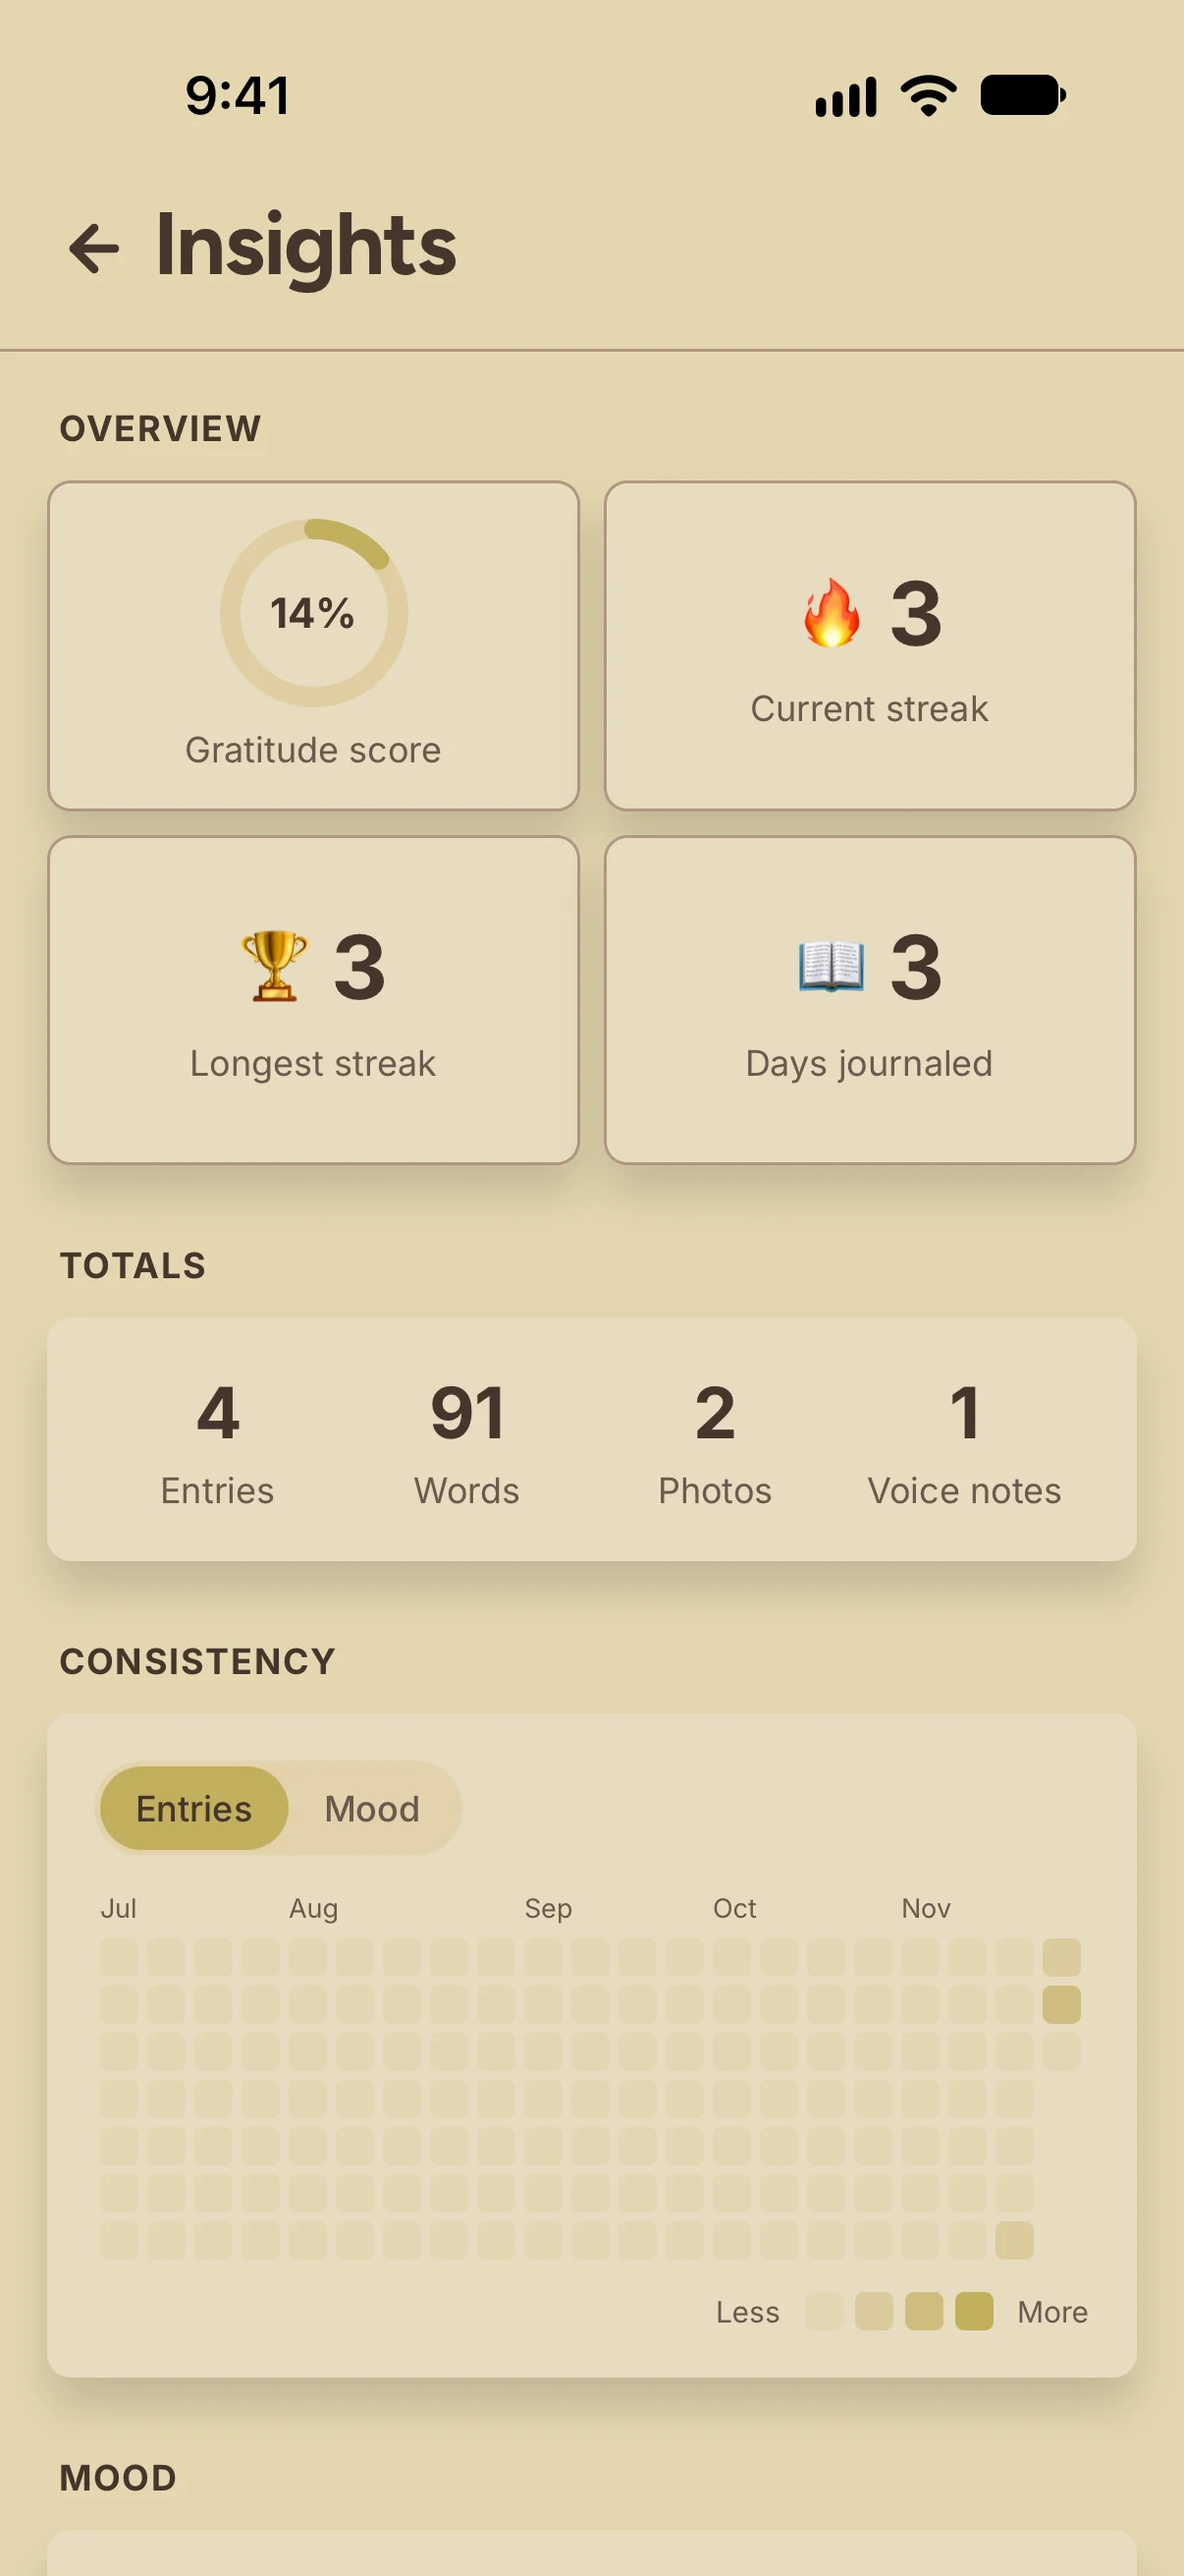
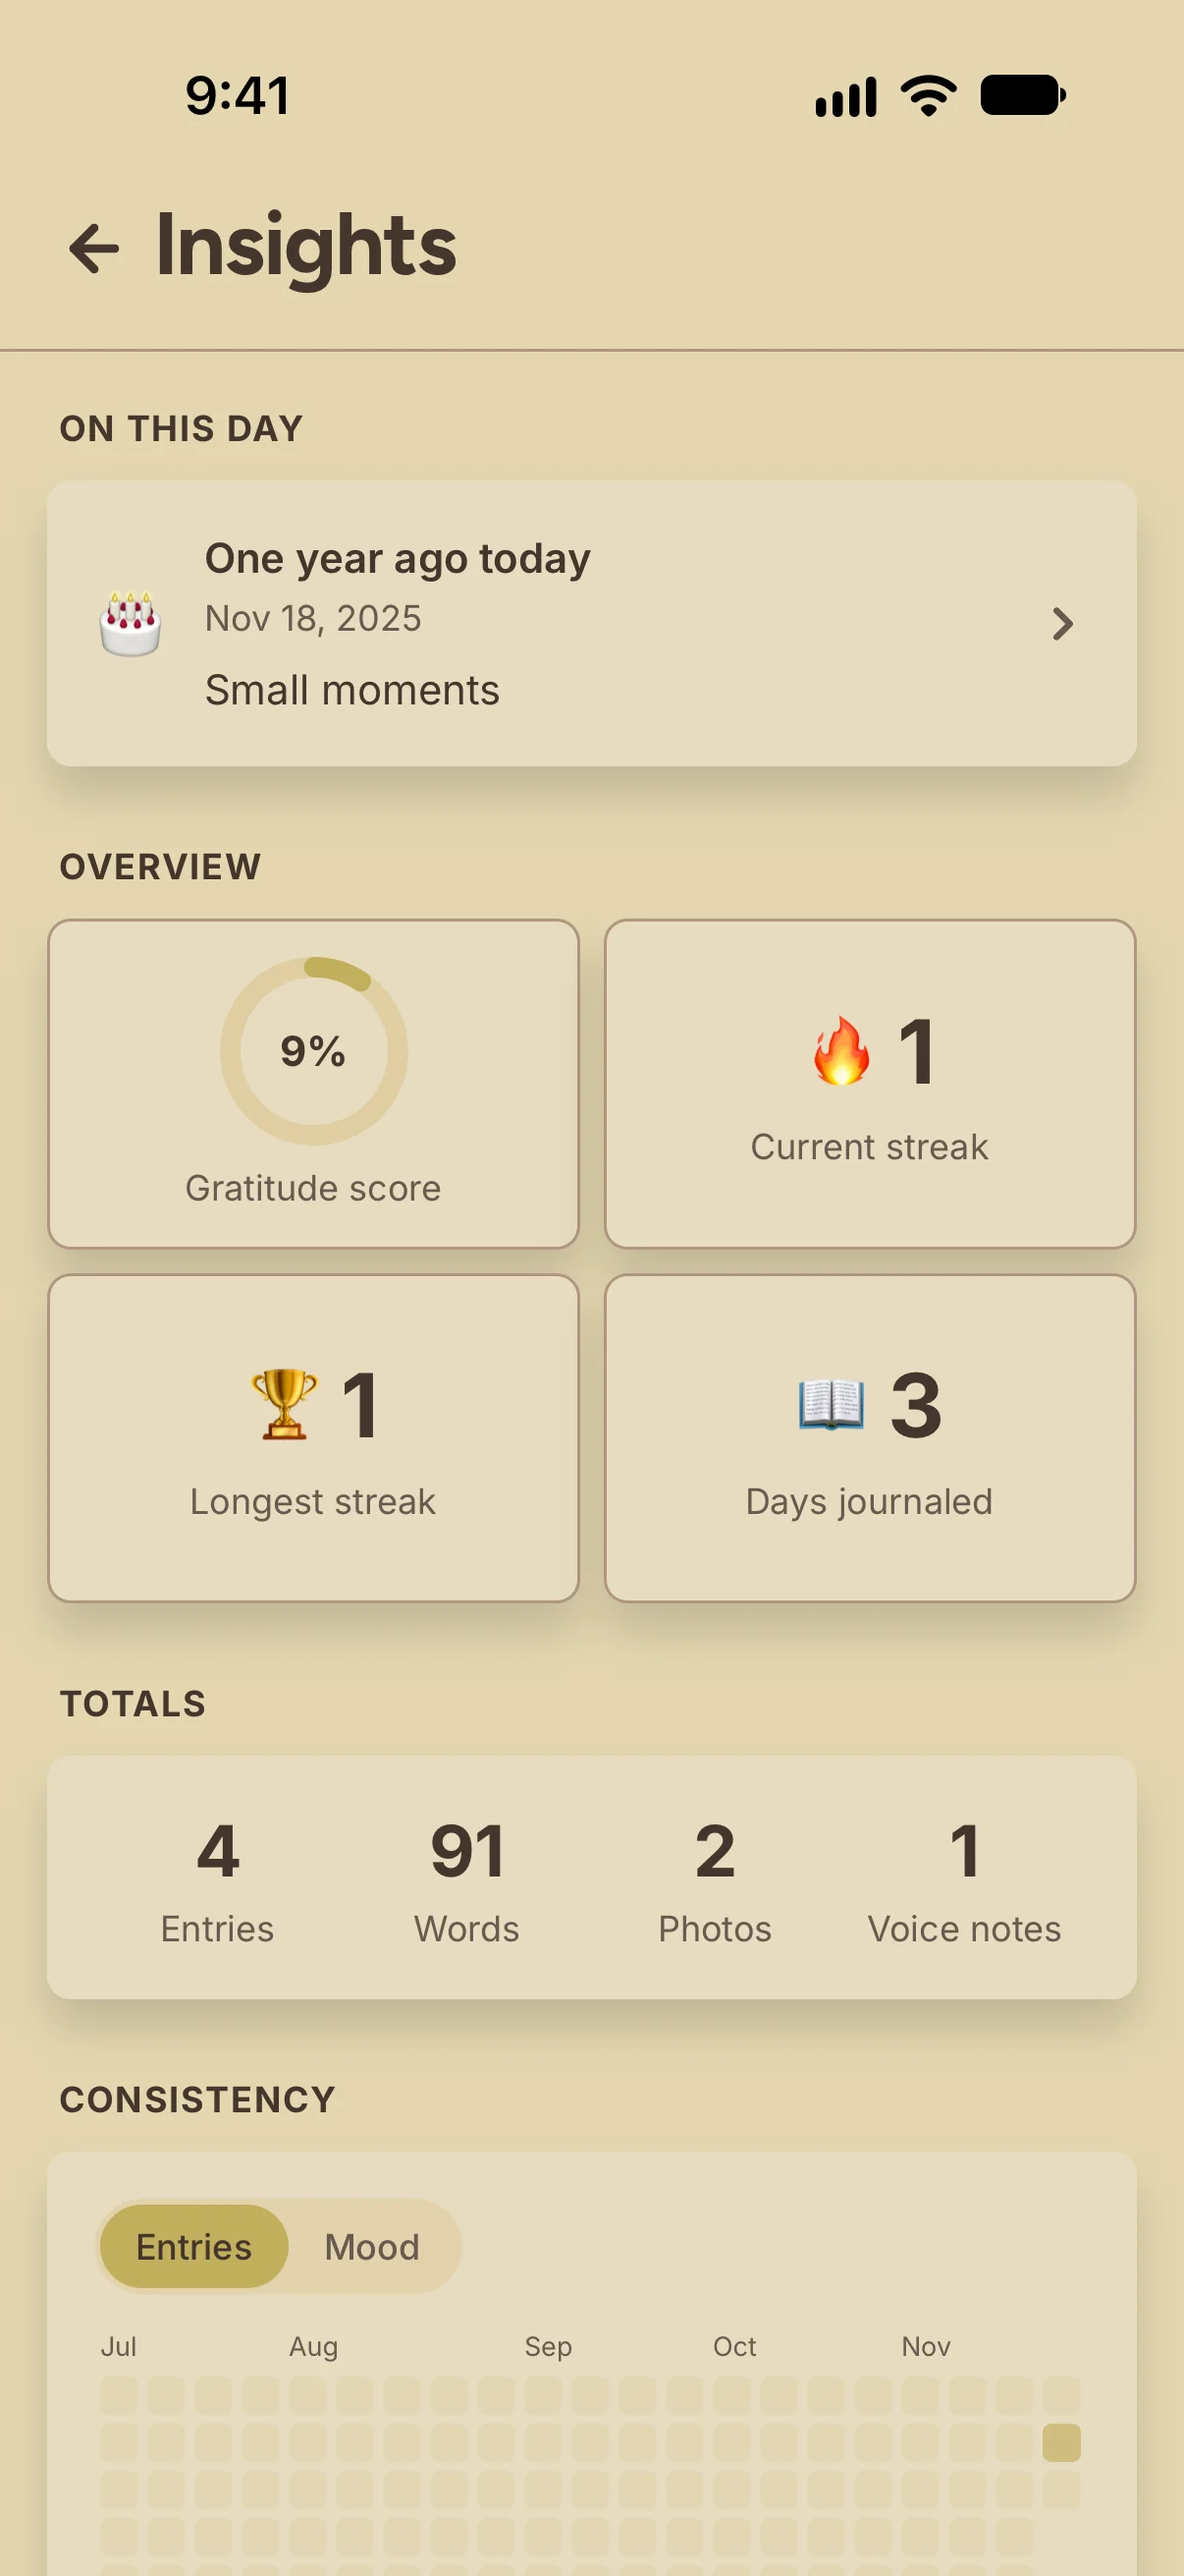
fix(website): show On this day in the Insights shot and tidy screenshot docs

Changed region(s): [[0.0307, 0.1545, 0.9818, 0.9886], [0.2761, 0.6796, 0.3375, 0.7105], [0.7977, 0.7105, 0.8284, 0.7414]]

diff --git a/apps/website/src/styles/global.css b/apps/website/src/styles/global.css
@@ -299,7 +299,11 @@
     }
 
     /* App screenshots, framed like PhoneFrame.astro. Several images in one
-       paragraph sit side by side. */
+       paragraph sit side by side. Every image in these pages is expected to be
+       a phone screenshot.
+       shortcut: Markdown images ship at full capture size (about 40-80 KB each,
+       lazy-loaded) with no srcset; render them through <Image> with widths if
+       the guides gain many screenshots. */
     & p:has(> img) {
       @apply flex flex-wrap items-start justify-center gap-6 py-2;
     }

diff --git a/apps/website/src/assets/screenshots/README.md b/apps/website/src/assets/screenshots/README.md
@@ -29,31 +29,47 @@ painted over with the neighbouring colour during the WebP conversion.
 
 ## Files
 
-| File                                   | Screen                                                   | Used on                      |
-| -------------------------------------- | -------------------------------------------------------- | ---------------------------- |
-| `ios/timeline-light.webp`, `-dark`     | Home timeline with the example entries                   | Home hero, README, `og.png`  |
-| `ios/editor-light.webp`, `-dark`       | Editing an entry: mood, photos, Mood/Photo/Voice/Tag bar | Home hero, README, `og.png`  |
-| `ios/entry-light.webp`, `-dark`        | Reading an entry with a mood and photos                  | —                            |
-| `ios/worksheet-light.webp`             | Journaling worksheet sheet                               | Home features                |
-| `ios/insights-light.webp`              | Insights (score, streaks, totals, calendar)              | Home features                |
-| `ios/insights-ar.webp`                 | Insights in Arabic (right-to-left)                       | —                            |
-| `ios/language-ar.webp`                 | Appearance in Arabic with the language list open         | —                            |
-| `ios/themes-light.webp`, `-dark`       | Theme picker                                             | Home "Make it yours"         |
-| `ios/app-icon-light.webp`              | App icon picker                                          | —                            |
-| `ios/prompt-title-light.webp`          | New entry with a prompt as its title                     | `/gratitude-journal-prompts` |
-| `ios/prompt-library-light.webp`        | All prompts, Family tab                                  | `/gratitude-journal-prompts` |
-| `ios/settings-backup-light.webp`       | Settings: app lock on, Backup & restore                  | —                            |
-| `ios/settings-import-light.webp`       | Settings: Backup & restore with the import rows          | `/import/*` guides           |
-| `ios/cloud-backup-light.webp`          | Cloud backup & sync, signed out                          | —                            |
-| `ios/onboarding-theme-light.webp`      | Onboarding "Make it yours" step                          | —                            |
-| `android/timeline-light.webp`, `-dark` | Home timeline on Android                                 | —                            |
+The website uses only the light captures. The dark ones feed the README's
+light/dark `<picture>`.
 
-Files marked "—" are kept for the landing page refresh (#195) and store listings.
+| File                                   | Screen                                                   | Used on                                      |
+| -------------------------------------- | -------------------------------------------------------- | -------------------------------------------- |
+| `ios/timeline-light.webp`              | Home timeline with the example entries                   | Home hero (so also `og.png`), README         |
+| `ios/timeline-dark.webp`               | Same, Dark theme                                         | README (dark mode)                           |
+| `ios/editor-light.webp`                | Editing an entry: mood, photos, Mood/Photo/Voice/Tag bar | Home hero (so also `og.png`), README         |
+| `ios/editor-dark.webp`                 | Same, Dark theme                                         | README (dark mode)                           |
+| `ios/entry-light.webp`, `-dark`        | Reading an entry with a mood and photos                  | —                                            |
+| `ios/worksheet-light.webp`             | Journaling worksheet sheet                               | Home features                                |
+| `ios/insights-light.webp`              | Insights: On this day, score, streaks, totals            | Home features                                |
+| `ios/insights-ar.webp`                 | Insights in Arabic (right-to-left)                       | —                                            |
+| `ios/language-ar.webp`                 | Appearance in Arabic with the language list open         | —                                            |
+| `ios/themes-light.webp`                | Theme picker                                             | Home "Make it yours"                         |
+| `ios/themes-dark.webp`                 | Same, Dark theme                                         | —                                            |
+| `ios/app-icon-light.webp`              | App icon picker                                          | —                                            |
+| `ios/prompt-title-light.webp`          | New entry with a prompt as its title                     | `/gratitude-journal-prompts`                 |
+| `ios/prompt-library-light.webp`        | All prompts, Family tab                                  | `/gratitude-journal-prompts`                 |
+| `ios/settings-backup-light.webp`       | Settings: app lock on, Backup & restore                  | —                                            |
+| `ios/settings-import-light.webp`       | Settings: Backup & restore with both import rows         | `/import/presently`, `/import/gratitude-app` |
+| `ios/cloud-backup-light.webp`          | Cloud backup & sync, signed out                          | —                                            |
+| `ios/onboarding-theme-light.webp`      | Onboarding "Make it yours" step                          | —                                            |
+| `android/timeline-light.webp`, `-dark` | Home timeline on Android                                 | —                                            |
+
+Files marked "—" are not used yet. They are kept for the landing page refresh
+(#195) and store listings.
+
+For the On this day card, the "Small moments" example entry was moved to the same
+day one year earlier in the entry editor, after the timeline and editor shots
+were taken. That is why those shots date it Nov 16, 2026 and Insights shows
+Nov 18, 2025.
 
 ## Regenerating
 
-- README frames: `bun run frame-screenshots` in `apps/website`.
-- Share image (`src/assets/og.png`, 1200×630): a screenshot of the home page hero
-  at a 1200×630 viewport, for example
-  `bunx --bun playwright@1.56.1 screenshot --channel chrome --viewport-size "1200,630" http://localhost:4321/ og.png`,
-  then compressed.
+- README frames: `bun run frame-screenshots` in `apps/website`. It reads the
+  `ios/` captures listed in the script and writes `assets/screenshots/` at the
+  repo root.
+- Share image (`src/assets/og.png`, 1200×630): a shot of the home page hero
+  without the sticky site header. With Playwright and the installed Chrome, open
+  the built site at a 1200×900 viewport and a device scale factor of 2, take a
+  1200×630 clip starting 70px below the top of the first `main section`, then
+  resize to 1200×630 and save as a palette PNG (sharp:
+  `png({ palette: true, quality: 90 })`).

diff --git a/README.md b/README.md
@@ -53,14 +53,14 @@ No accounts. No ads. Your journal stays on your device.
         <strong>Daily timeline</strong><br /><br />
         <picture>
           <source media="(prefers-color-scheme: dark)" srcset="assets/screenshots/timeline-dark.webp" />
-          <img src="assets/screenshots/timeline-light.webp" alt="Tackbok timeline with example entries: a welcome note with a mood, a voice note, and two photos" width="270" />
+          <img src="assets/screenshots/timeline-light.webp" alt="Tackbok timeline with example entries: a welcome note with a mood, a voice note, and two photos" width="270" height="563" />
         </picture>
       </td>
       <td align="center" width="50%">
         <strong>Photos, voice notes, moods and tags</strong><br /><br />
         <picture>
           <source media="(prefers-color-scheme: dark)" srcset="assets/screenshots/editor-dark.webp" />
-          <img src="assets/screenshots/editor-light.webp" alt="Editing an entry with a mood, two framed photos, and buttons to add a mood, photo, voice note, or tag" width="270" />
+          <img src="assets/screenshots/editor-light.webp" alt="Editing an entry with a mood, two framed photos, and buttons to add a mood, photo, voice note, or tag" width="270" height="563" />
         </picture>
       </td>
     </tr>
